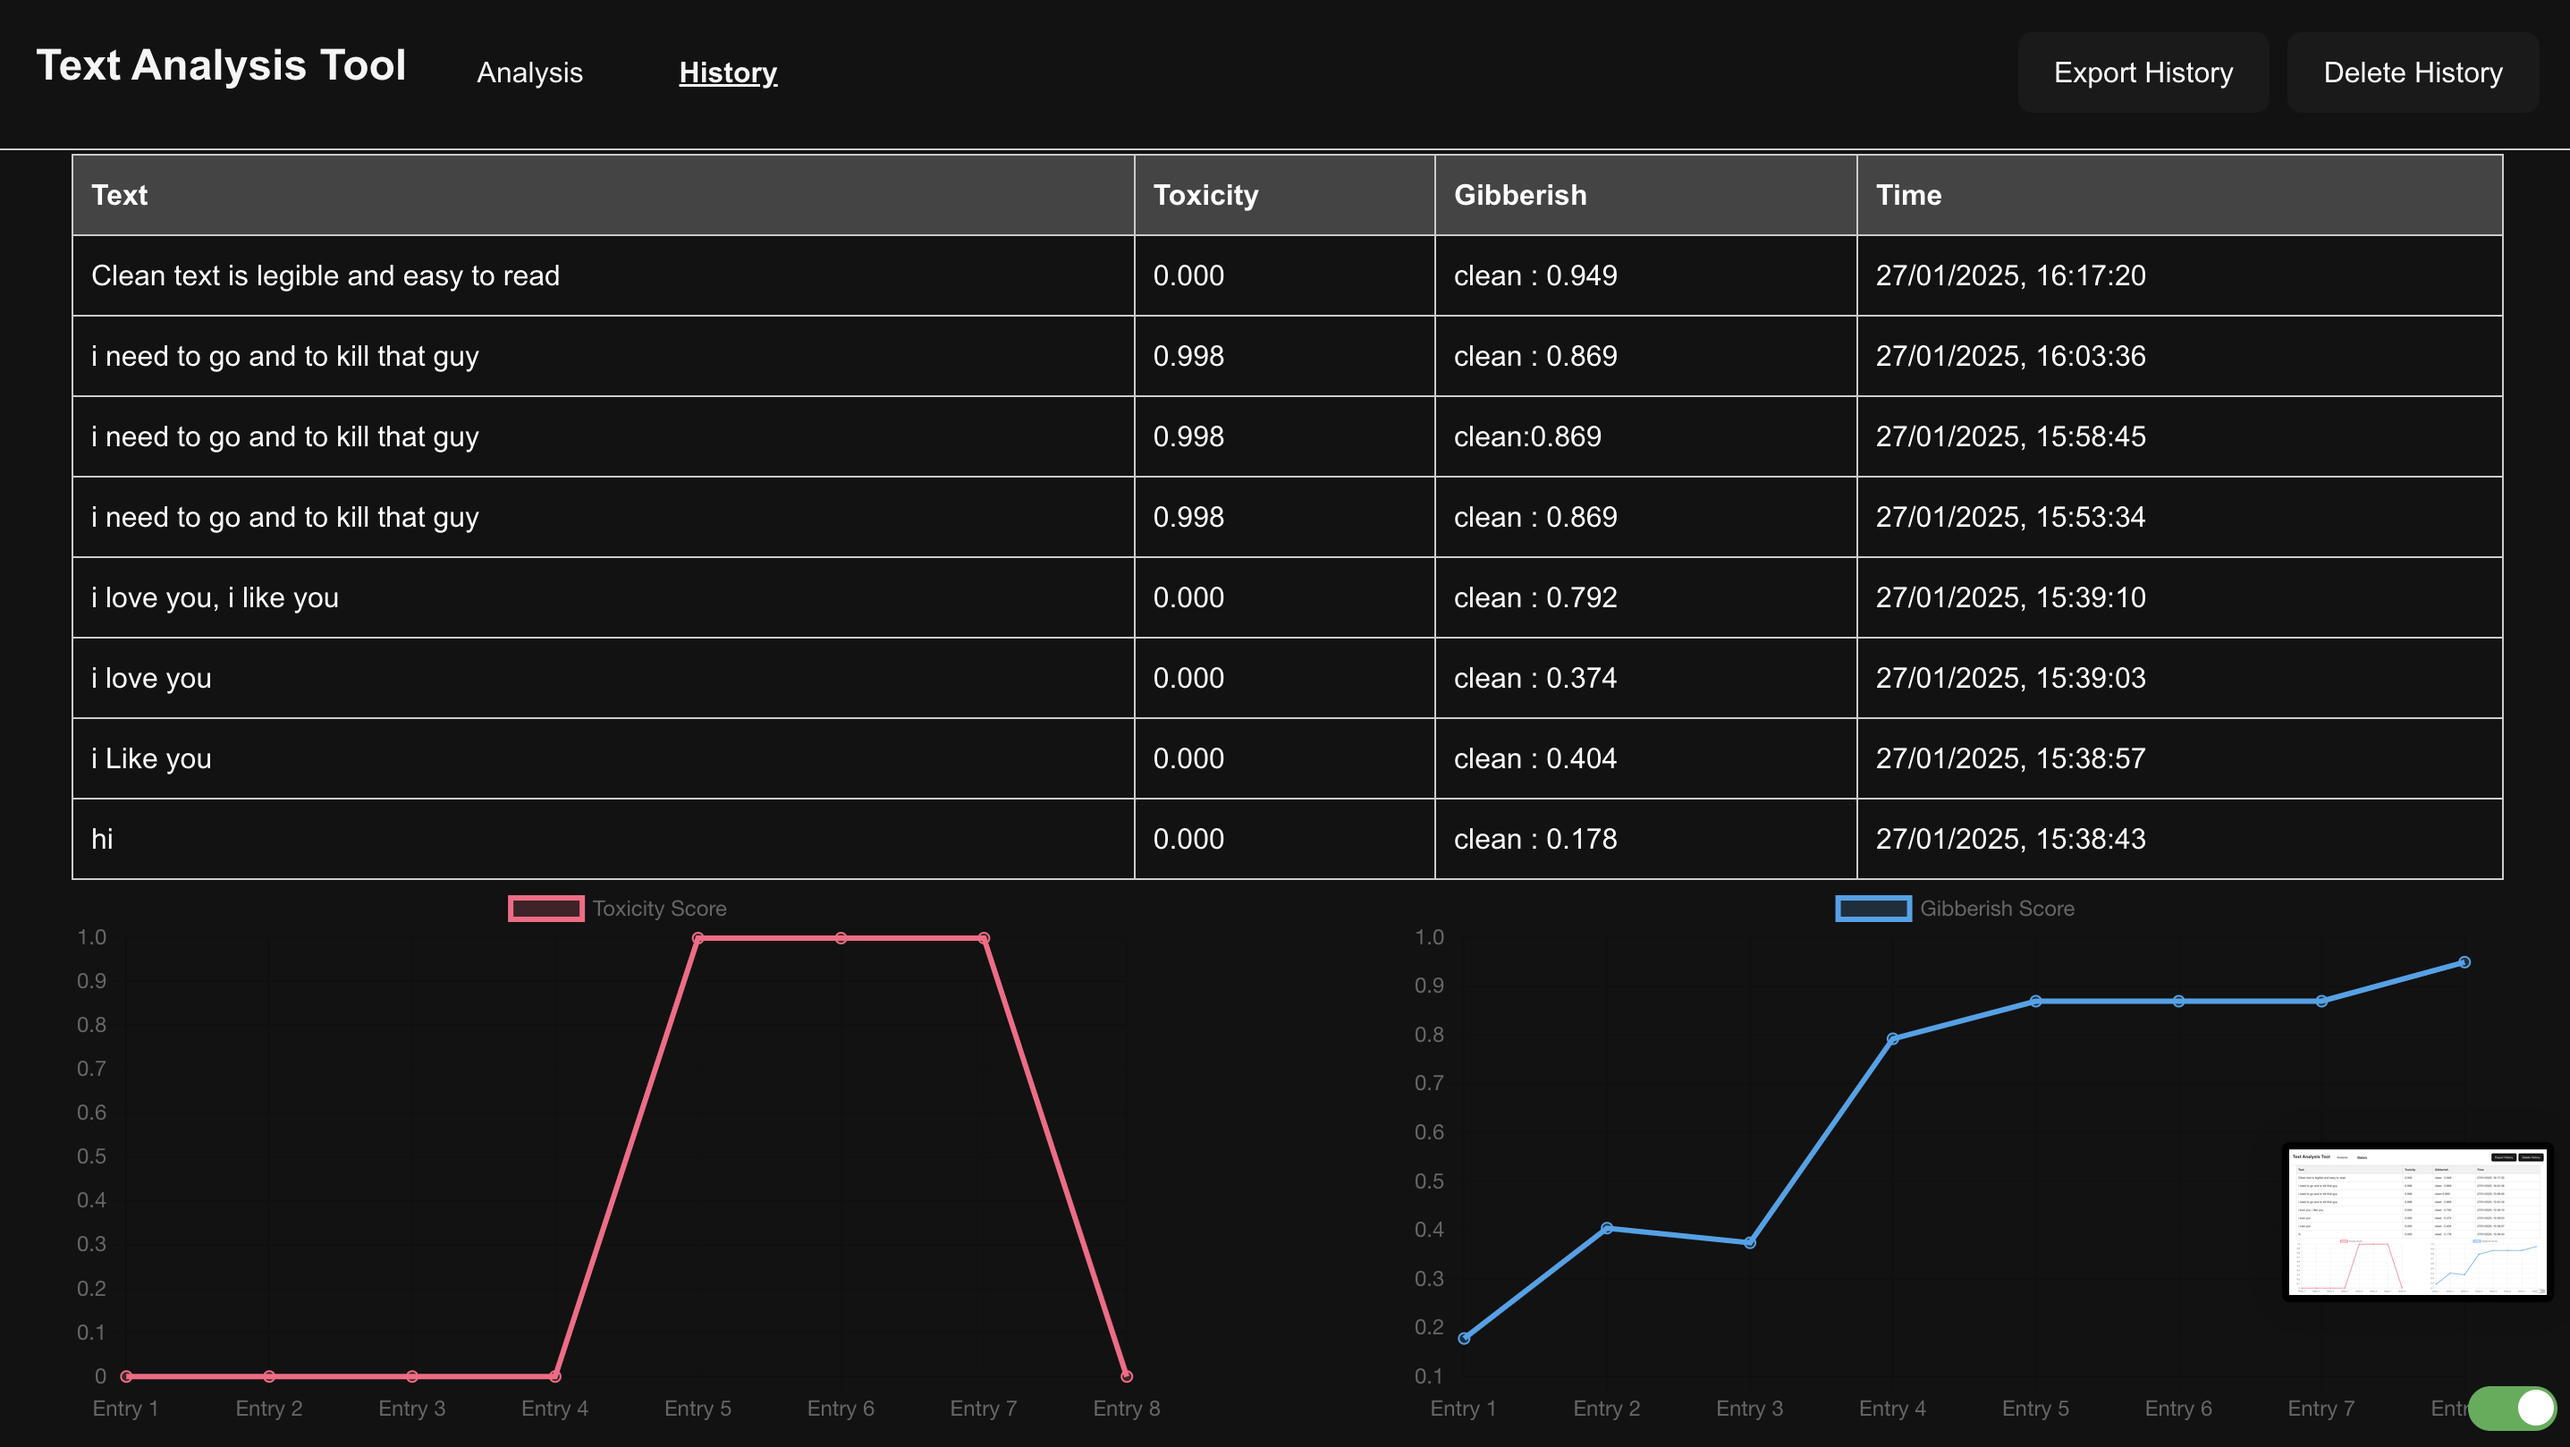
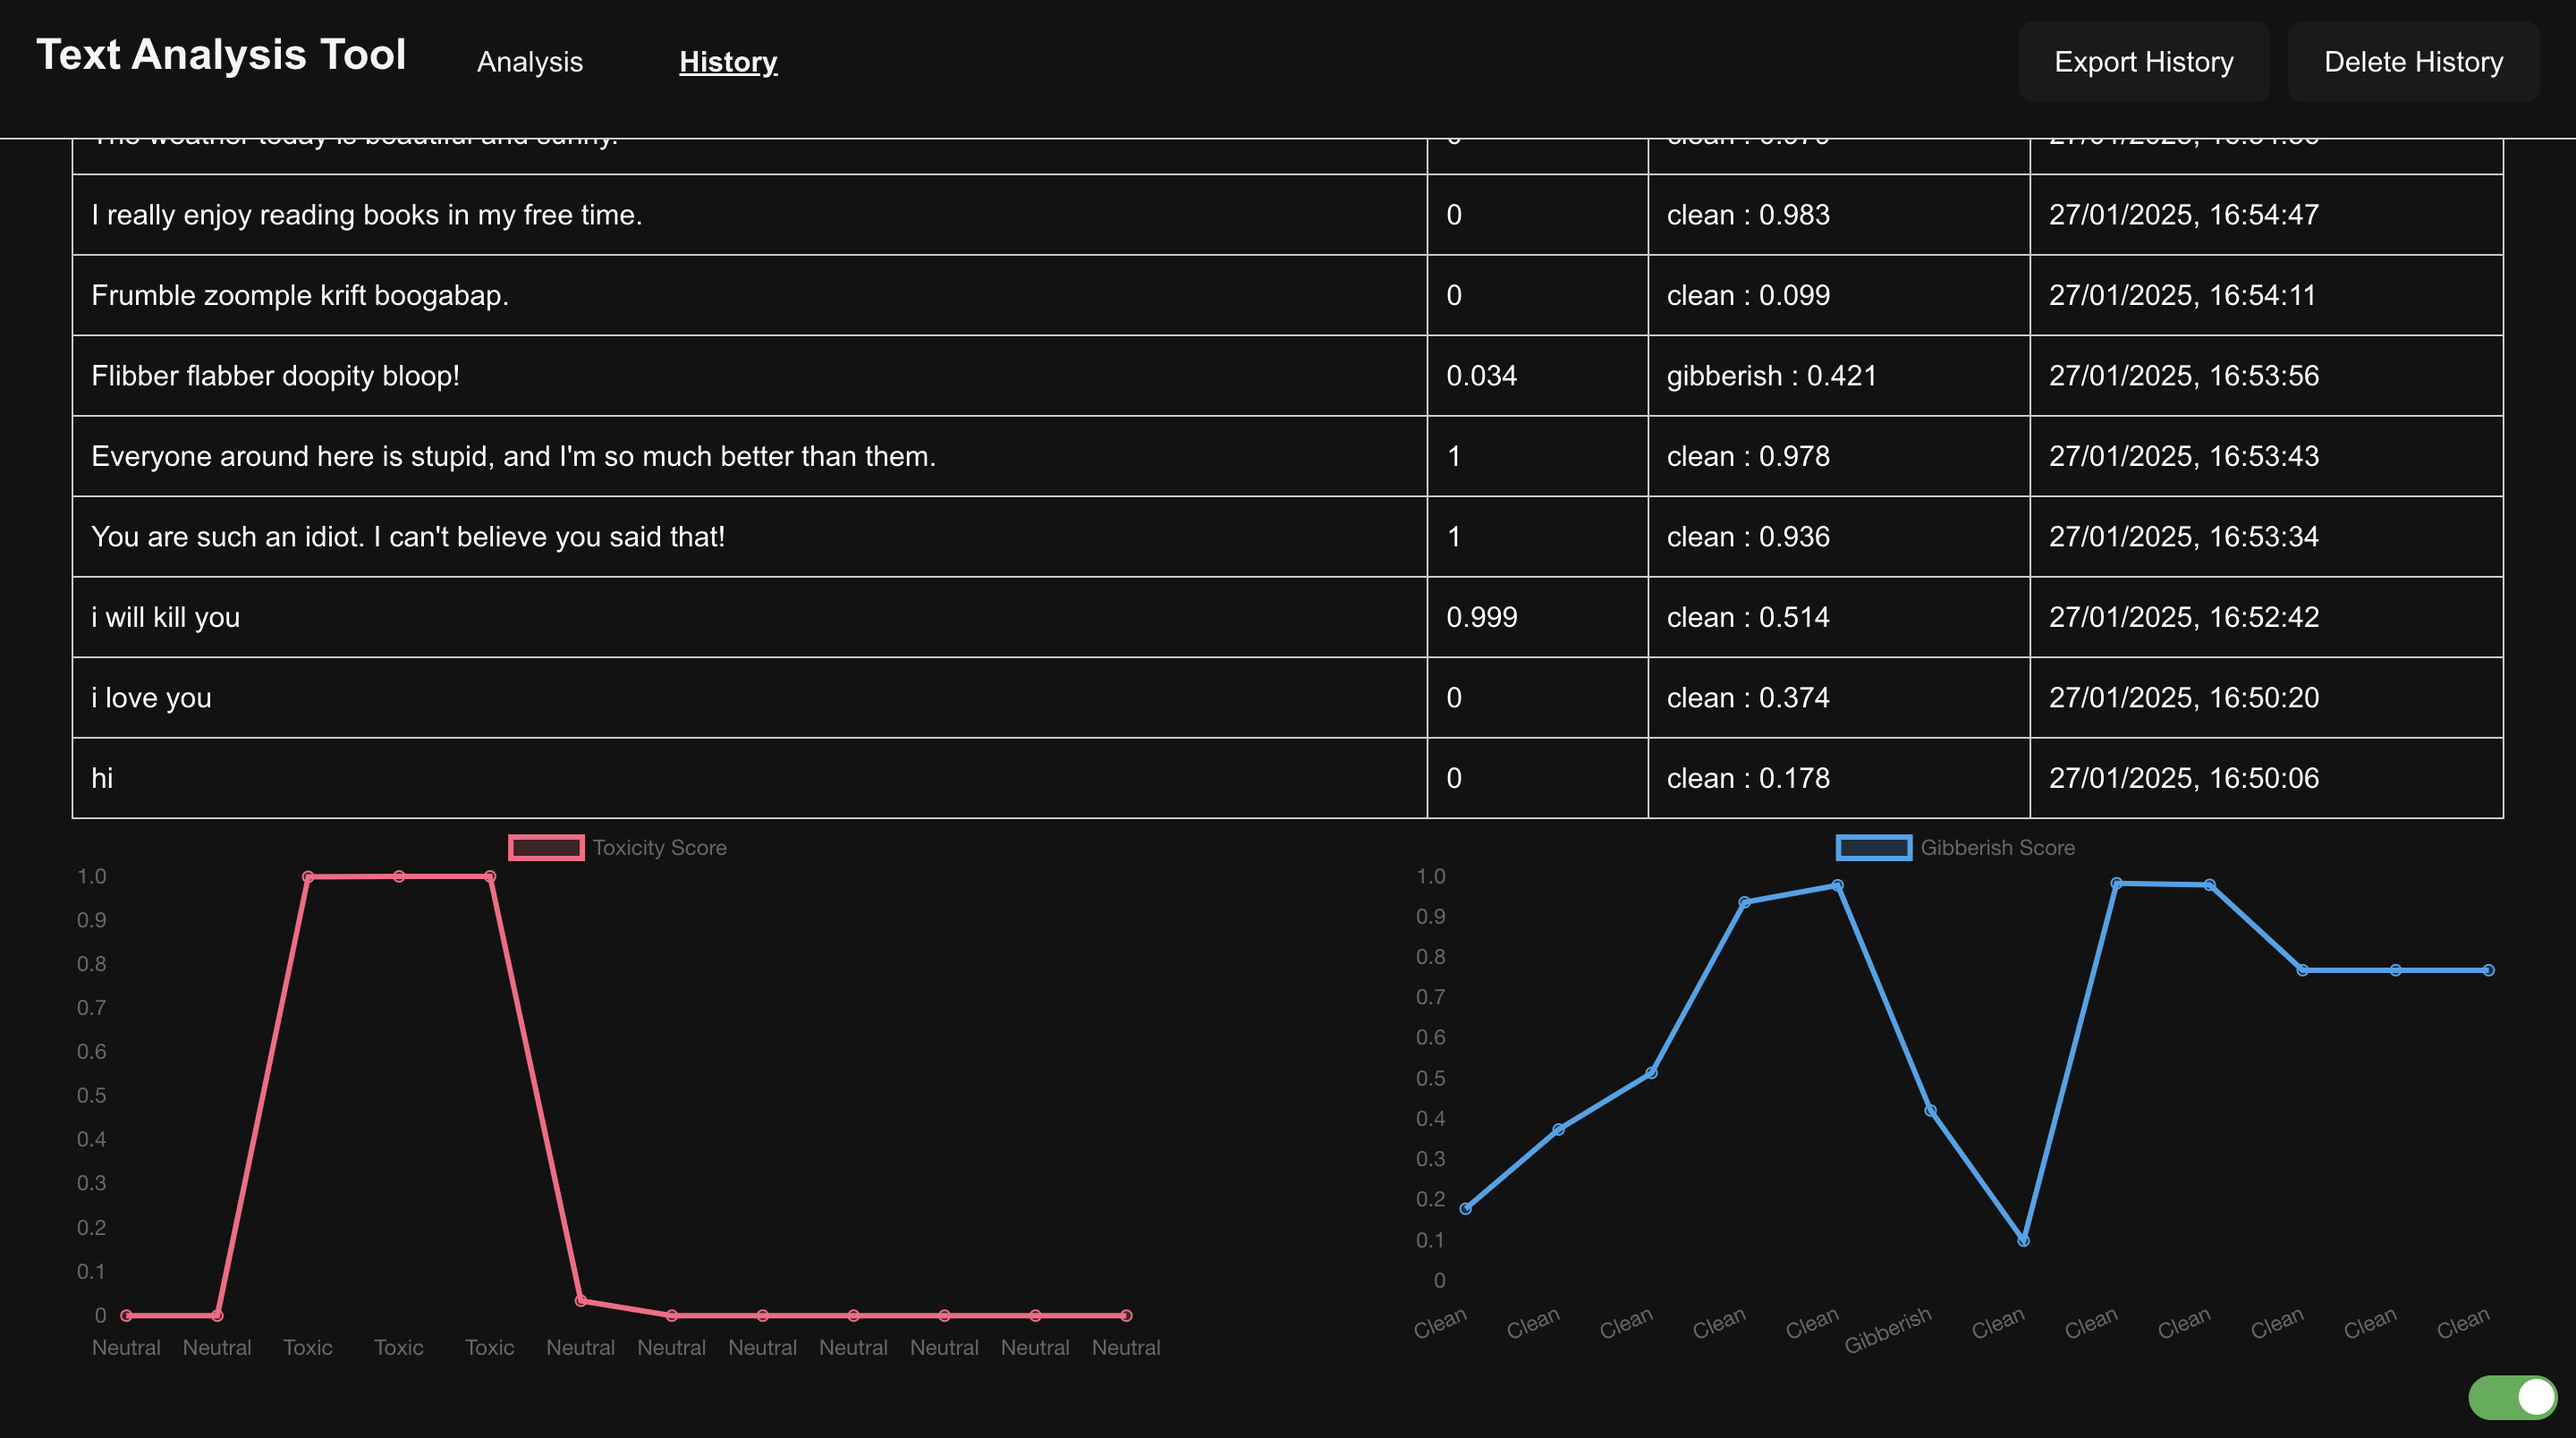
Text Analysis Tool updated-2

diff --git a/client/src/App.jsx b/client/src/App.jsx
@@ -98,7 +98,7 @@ function App() {
   const labels = history.map((entry, index) => `Entry ${index + 1}`);
 
   const toxicityData = {
-    labels,
+    labels: history.slice().reverse().map((entry) => entry.toxicity > 0.5 ? 'Toxic' : 'Neutral'),
     datasets: [
       {
         label: "Toxicity Score",
@@ -110,7 +110,7 @@ function App() {
   };
 
   const gibberishData = {
-    labels,
+    labels: history.slice().reverse().map((entry) => entry.gibberish.includes("gibberish") ? 'Gibberish' : 'Clean'),
     datasets: [
       {
         label: "Gibberish Score",
